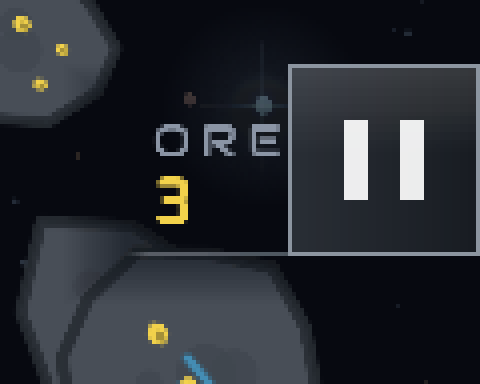
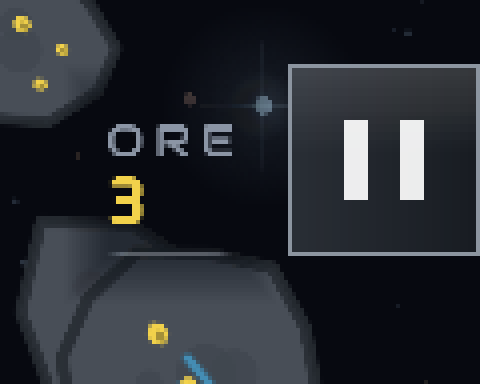
evidence(a0-102): the counter over the ore-bearing asteroid, before and after
Cut from the golden baselines: same frozen scene, same tick, same renderer, only
this branch between them. The number the finding turns on, measured on those two
frames: the ore crystals behind the counter drop 178.6 -> 50.1 in luminance while
the numeral stays at 187.7, so numeral-to-crystal goes from 1.05x to 3.75x. QA's
words were 'the same hue, at a similar size, with nothing separating them'; at
1.05x there was nothing separating them, and the numeral did not move a shade.

The two HUD-band goldens are rebaked. Noted for QA in the README: --update-snapshots
rewrote nothing on its own, because the change lands inside maxDiffPixelRatio 0.01
- the moved glyphs are about half that budget and the scrim's darkening is under
pixelmatch's per-pixel threshold entirely. The tolerance is QA's and is untouched.

diff --git a/evidence/a0-102-ore-counter-ground/README.md b/evidence/a0-102-ore-counter-ground/README.md
@@ -58,9 +58,9 @@ and the counter's own numeral, in luminance:
 
 | | before | after |
 |---|---|---|
-| ore crystals inside the counter's footprint (162 px) | **177.7** | **58.6** |
-| the banked numeral itself | 187.1 | 187.1 |
-| numeral ÷ crystal | **1.05×** | **3.19×** |
+| ore crystals behind the counter (121 px) | **178.6** | **50.1** |
+| the banked numeral itself | 187.8 | 187.7 |
+| numeral ÷ crystal | **1.05×** | **3.75×** |
 
 That is the whole fix in one row. QA's complaint was *"the same hue, at a similar
 size, with nothing separating them"* — and at 1.05× there was nothing separating
@@ -68,11 +68,19 @@ them. The numeral did not move a shade; the ore behind it lost two thirds of its
 luminance, because the ground dims everything drawn under it and the readout is
 drawn on top of the ground.
 
-(The luminance drop is 0.67 where the scrim's coverage is 0.55 because the two
-compose over a crystal much brighter than the rock the constant was reasoned
-about. And it is not 0.55 exactly for the rock either — `SCRIM_COLOR` is
+(The drop is 0.72 where the scrim's coverage is 0.55 because a crystal is far
+brighter than the rock the constant was reasoned about, so the same coverage
+takes more of it. And it is not 0.55 for the rock either — `SCRIM_COLOR` is
 `PALETTE.vacuum`, not black, so 0.55 coverage of it costs a lit rock ~0.46 of its
-luminance, not 0.55.)
+luminance.)
+
+**The landscape-phone crop shows something different, and deliberately so.** At
+that tick the counter has open sky behind it, and a scrim over black is invisible
+— which is the rule the whole treatment is built on: the world reads through it,
+and where there is no world there is nothing to dim. What that crop is evidence
+of is the *placement*: `ORE` clears the corner pause button with air to spare.
+The first cut of this branch did not, and that shot is why the rule lost its
+overhang (`ORE_RULE_OVERHANG`, deleted).
 
 ## A note for QA on the golden gate
 

diff --git a/evidence/a0-102-ore-counter-ground/PR-BODY.md b/evidence/a0-102-ore-counter-ground/PR-BODY.md
@@ -113,9 +113,9 @@ Two things came along because they would otherwise have regressed:
 
   | | before | after |
   |---|---|---|
-  | ore crystals inside the counter's footprint (162 px) | **177.7** | **58.6** |
-  | the banked numeral itself | 187.1 | 187.1 |
-  | numeral ÷ crystal | **1.05×** | **3.19×** |
+  | ore crystals behind the counter (121 px) | **178.6** | **50.1** |
+  | the banked numeral itself | 187.8 | 187.7 |
+  | numeral ÷ crystal | **1.05×** | **3.75×** |
 
   QA's words were *"the same hue, at a similar size, with nothing separating
   them"*. At 1.05× there was nothing separating them. The numeral did not move a
